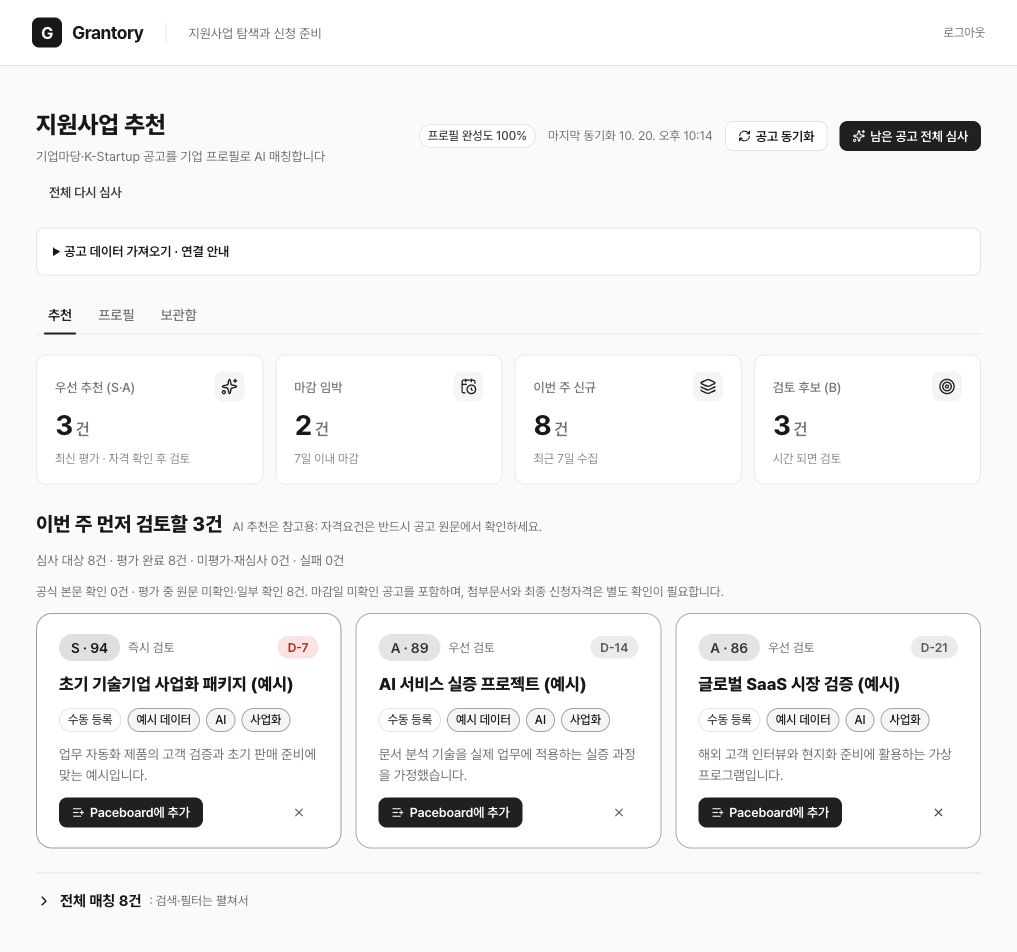
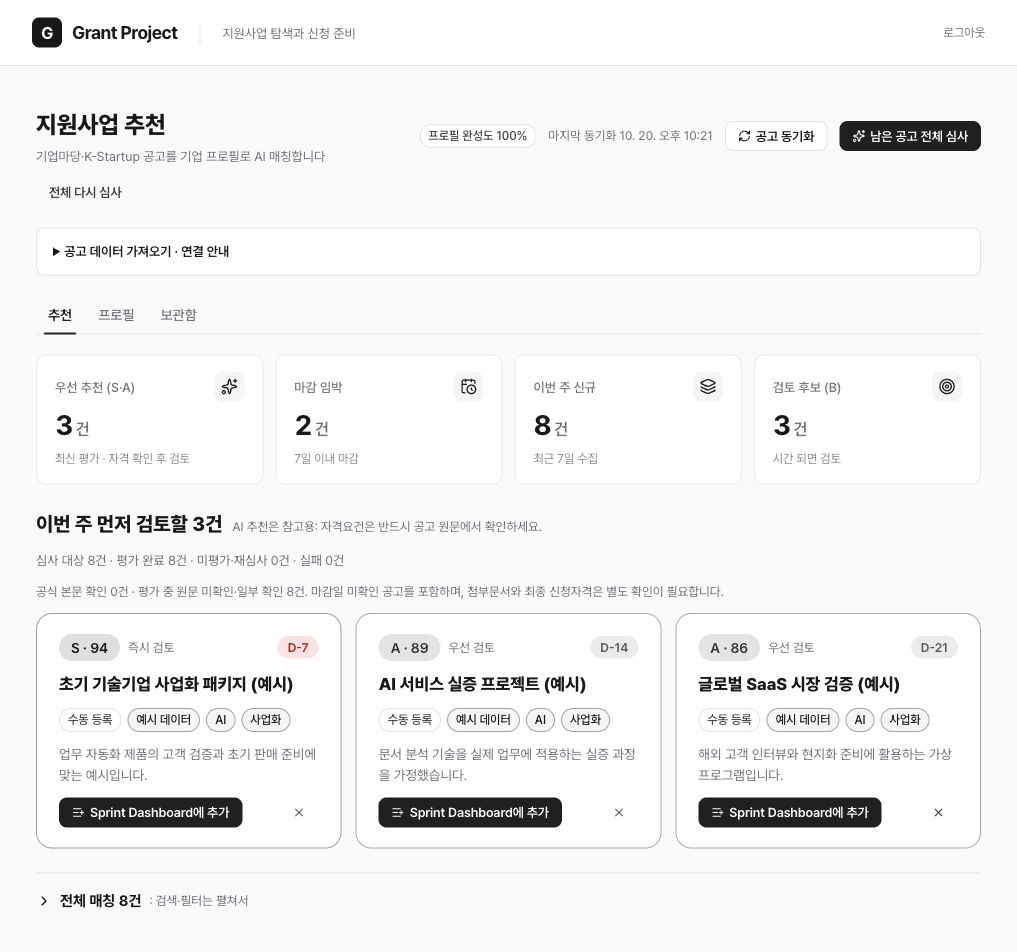
Update Site source

diff --git a/components/grants/GrantsWorkspace.tsx b/components/grants/GrantsWorkspace.tsx
@@ -27,7 +27,7 @@ import { GrantDrawer } from "./GrantDrawer";
 import { GrantsProfileTab } from "./GrantsProfileTab";
 
 /* 지원사업 추천 워크스페이스 — Poliflo 벤치마크(docs/competitor-poliflo-salesforce.md §3A).
-   수집(동기화) → AI 매칭(S~D) → 이번 주 3건 히어로 → Paceboard 태스크 전환. UI는 한국어. */
+   수집(동기화) → AI 매칭(S~D) → 이번 주 3건 히어로 → Sprint Dashboard 태스크 전환. UI는 한국어. */
 
 type TabValue = "recommend" | "profile" | "archive";
 type ToastMsg = { tone: "success" | "danger"; title: string; text: string };
@@ -85,8 +85,8 @@ export function GrantsWorkspace({sprintUrl}:{sprintUrl:string|null}) {
       pendingImports.current.delete(message.grantId);
       void linkSprintTask(message.grantId,message.taskId).then(updated=>{
         setPrograms(prev=>prev.map(p=>p.id===updated.id?updated:p));
-        setToast({tone:"success",title:"Paceboard에 추가됨",text:"태스크를 생성하고 공고와 연결했습니다."});
-      }).catch(()=>setToast({tone:"danger",title:"연결 저장 실패",text:"Paceboard 태스크는 생성되었지만 공고 연결을 저장하지 못했습니다. 다시 열어 연결해주세요."}));
+        setToast({tone:"success",title:"Sprint Dashboard에 추가됨",text:"태스크를 생성하고 공고와 연결했습니다."});
+      }).catch(()=>setToast({tone:"danger",title:"연결 저장 실패",text:"Sprint Dashboard 태스크는 생성되었지만 공고 연결을 저장하지 못했습니다. 다시 열어 연결해주세요."}));
     };
     window.addEventListener("message",receive);return()=>window.removeEventListener("message",receive);
   },[sprintUrl]);
@@ -203,13 +203,13 @@ export function GrantsWorkspace({sprintUrl}:{sprintUrl:string|null}) {
   };
 
   const handleAddToSprint = async (p: GrantProgram) => {
-    if (!sprintUrl) {setToast({tone:"danger",title:"Paceboard 연결 필요",text:"서버의 SPRINT_SERVICE_URL에 본인 Paceboard 웹서비스 주소를 설정해주세요."});return;}
+    if (!sprintUrl) {setToast({tone:"danger",title:"Sprint Dashboard 연결 필요",text:"서버의 SPRINT_SERVICE_URL에 본인 Sprint Dashboard 웹서비스 주소를 설정해주세요."});return;}
     const left=daysUntil(p.applyEnd);
     const payload={title:`신청 준비: ${p.title}`,description:[p.url?`공고 원문: ${p.url}`:"",p.why?`${grantReviewPresentation(p, profile?.updatedAt ?? "").stale ? "이전 평가 이유 (재심사 필요)" : "AI 추천 이유"}: ${p.why}`:""].filter(Boolean).join("\n\n"),dueDate:p.applyEnd,priority:left!=null&&left<=14?"high":"medium",...(p.url?{sourceUrl:p.url}:{}),grantId:p.id};
     const encoded=btoa(Array.from(new TextEncoder().encode(JSON.stringify(payload)),b=>String.fromCharCode(b)).join("")).replaceAll("+","-").replaceAll("/","_").replace(/=+$/g,"");
     const popup=window.open(`${sprintUrl}/import/grant?payload=${encoded}`,"_blank");
     if(popup)pendingImports.current.set(p.id,popup);
-    setToast({tone:"success",title:"Paceboard에서 확인",text:"열린 Paceboard 화면에서 내용을 확인한 후 태스크를 생성하세요. 같은 공고를 다시 보내도 중복 생성되지 않습니다."});
+    setToast({tone:"success",title:"Sprint Dashboard에서 확인",text:"열린 Sprint Dashboard 화면에서 내용을 확인한 후 태스크를 생성하세요. 같은 공고를 다시 보내도 중복 생성되지 않습니다."});
   };
 
   const handleImport = async (file:File|undefined)=>{

diff --git a/app/page.tsx b/app/page.tsx
@@ -4,5 +4,5 @@ import { GrantsWorkspace } from "@/components/grants/GrantsWorkspace";
 import { sprintServiceUrl } from "@/lib/server/config";
 export default async function Home(){
  const user=await requireChatGPTUser("/");
- return <CurrentUserProvider user={{id:user.userId,displayName:user.displayName}}><div className="service-shell"><nav className="service-top"><a href="/" className="service-brand"><span>G</span>Grantory</a><span className="service-section">지원사업 탐색과 신청 준비</span><a className="service-session" href={chatGPTSignOutPath()}>로그아웃</a></nav><main><GrantsWorkspace sprintUrl={sprintServiceUrl()}/></main></div></CurrentUserProvider>;
+ return <CurrentUserProvider user={{id:user.userId,displayName:user.displayName}}><div className="service-shell"><nav className="service-top"><a href="/" className="service-brand"><span>G</span>Grant Project</a><span className="service-section">지원사업 탐색과 신청 준비</span><a className="service-session" href={chatGPTSignOutPath()}>로그아웃</a></nav><main><GrantsWorkspace sprintUrl={sprintServiceUrl()}/></main></div></CurrentUserProvider>;
 }

diff --git a/components/grants/GrantsHero.tsx b/components/grants/GrantsHero.tsx
@@ -145,7 +145,7 @@ export function GrantsHero({ programs, profileUpdatedAt = "", onOpen, onAddToSpr
                     disabled={!!p.sprintTaskId}
                     onClick={() => onAddToSprint(p)}
                   >
-                    <ListPlus size={14} /> {p.sprintTaskId ? "Paceboard에 있음" : "Paceboard에 추가"}
+                    <ListPlus size={14} /> {p.sprintTaskId ? "Sprint Dashboard에 있음" : "Sprint Dashboard에 추가"}
                   </Button>
                   <span style={{ flex: 1 }} />
                   <Button variant="ghost" size="sm" onClick={() => onDismiss(p)} title="이번 추천에서 빼기">

diff --git a/components/grants/GrantDrawer.tsx b/components/grants/GrantDrawer.tsx
@@ -82,7 +82,7 @@ export function GrantDrawer({ program: p, profileUpdatedAt, onClose, onAddToSpri
               disabled={!!p.sprintTaskId}
               onClick={() => onAddToSprint(p)}
             >
-              <ListPlus size={14} /> {p.sprintTaskId ? "Paceboard에 등록됨" : "Paceboard에 추가"}
+              <ListPlus size={14} /> {p.sprintTaskId ? "Sprint Dashboard에 등록됨" : "Sprint Dashboard에 추가"}
             </Button>
             <span style={{ flex: 1 }} />
             <Button

diff --git a/app/layout.tsx b/app/layout.tsx
@@ -2,7 +2,7 @@ import type { Metadata } from "next";
 import "./globals.css";
 
 export const metadata: Metadata = {
-  title: "Grantory — 지원사업 탐색과 신청 준비",
+  title: "Grant Project — 지원사업 탐색과 신청 준비",
   description: "공고 수집부터 기업 프로필 매칭, 검토와 신청 준비까지.",
   other: {
     "codex-preview": "development",

diff --git a/README.md b/README.md
@@ -1,6 +1,6 @@
 <div align="center">
 
-# Grantory
+# Grant Project
 
 **지원사업을 찾고, 우리 기업에 맞는 공고를 검토하고, 신청 준비로 연결하는 웹서비스.**
 
@@ -8,7 +8,7 @@
 
 </div>
 
-![Grantory 추천 화면 — 가상 데이터로 구성한 예시](docs/images/overview.png)
+![Grant Project 추천 화면 — 가상 데이터로 구성한 예시](docs/images/overview.png)
 
 *가상 기업·지원사업·평가 등급으로 구성한 예시 화면입니다. 실제 공고나 AI 심사 결과가 아닙니다. 실제 서비스는 빈 데이터베이스로 시작합니다.*
 
@@ -25,7 +25,7 @@
 | `BIZINFO_API_KEY` | 기업마당 공고 동기화 | [기업마당 정책정보 개방](https://www.bizinfo.go.kr/apiList.do)에서 본인 인증키 준비 |
 | `KSTARTUP_API_KEY` | K-Startup 공고 동기화 | [공공데이터포털](https://www.data.go.kr/)에서 창업진흥원 K-Startup 조회서비스 활용 신청 |
 | `OPENAI_API_KEY` + `OPENAI_MODEL` | AI 매칭 / 재심사 | 본인 서버용 키와 구조화 출력 지원 모델 지정. 버튼 실행 시 API 사용량 발생 |
-| `SPRINT_SERVICE_URL` | 공고 → Paceboard 태스크 | 본인의 Paceboard 웹서비스 origin. 선택 설정 |
+| `SPRINT_SERVICE_URL` | 공고 → Sprint Dashboard 태스크 | 본인의 Sprint Dashboard 웹서비스 origin. 선택 설정 |
 
 수집 API는 둘 중 하나만 설정할 수도 있습니다. 미설정 출처는 별도로 안내되며, 해당 출처까지 수집했다고 표시하지 않습니다. AI 키가 없으면 등급을 임의 생성하지 않습니다.
 
@@ -74,7 +74,7 @@ node --experimental-strip-types scripts/readme-example.mjs cleanup
 | 공고 심사 | 공식 원문과 프로필을 바탕으로 등급·자격 체크포인트·추천 이유 저장 |
 | 전체 / 재심사 | 배치별 진행률·중지·실패 재시도, 프로필·공고 변경 시 재평가 표시 |
 | 검토 정리 | 등급별 필터, 검색, 별표, 피드백, 제외·복원, 상세 드로어 |
-| 신청 준비 | 별도 Paceboard 웹서비스에서 내용을 확인하고 실제 태스크 생성. 동일 공고 재전송은 중복 생성 방지 |
+| 신청 준비 | 별도 Sprint Dashboard 웹서비스에서 내용을 확인하고 실제 태스크 생성. 동일 공고 재전송은 중복 생성 방지 |
 
 AI 결과에는 확인한 원문 범위와 한계가 남습니다. 첨부 PDF/HWP를 검토했다고 표시하지 않으며, 최종 자격 판단은 공식 원문을 기준으로 합니다.
 
@@ -87,7 +87,7 @@ flowchart LR
   API --> D1[(사용자별 D1 데이터)]
   API --> Public[기업마당 / K-Startup]
   API --> AI[OpenAI]
-  Browser --> Sprint[Paceboard 신청 준비]
+  Browser --> Sprint[Sprint Dashboard 신청 준비]
 ```
 
 - `components/grants/`: 원래 추천·프로필·보관함 화면과 상세 컴포넌트
